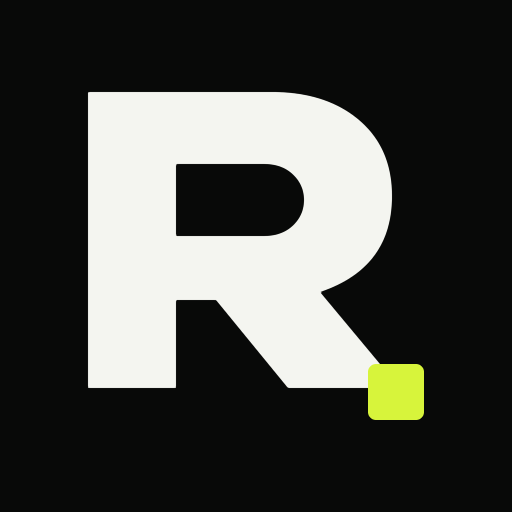
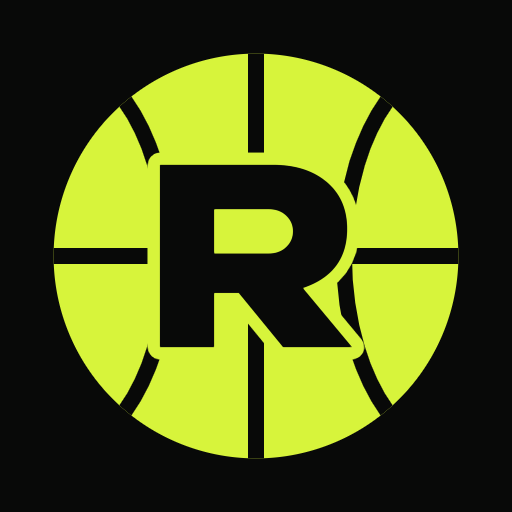
Icône : ballon de basket lime avec le R de Rehaab

diff --git a/sw.js b/sw.js
@@ -1,4 +1,4 @@
-const CACHE = 'rehaab-v27-illus';
+const CACHE = 'rehaab-v28-icone';
 const PRECACHE = [
   './',
   './index.html',
